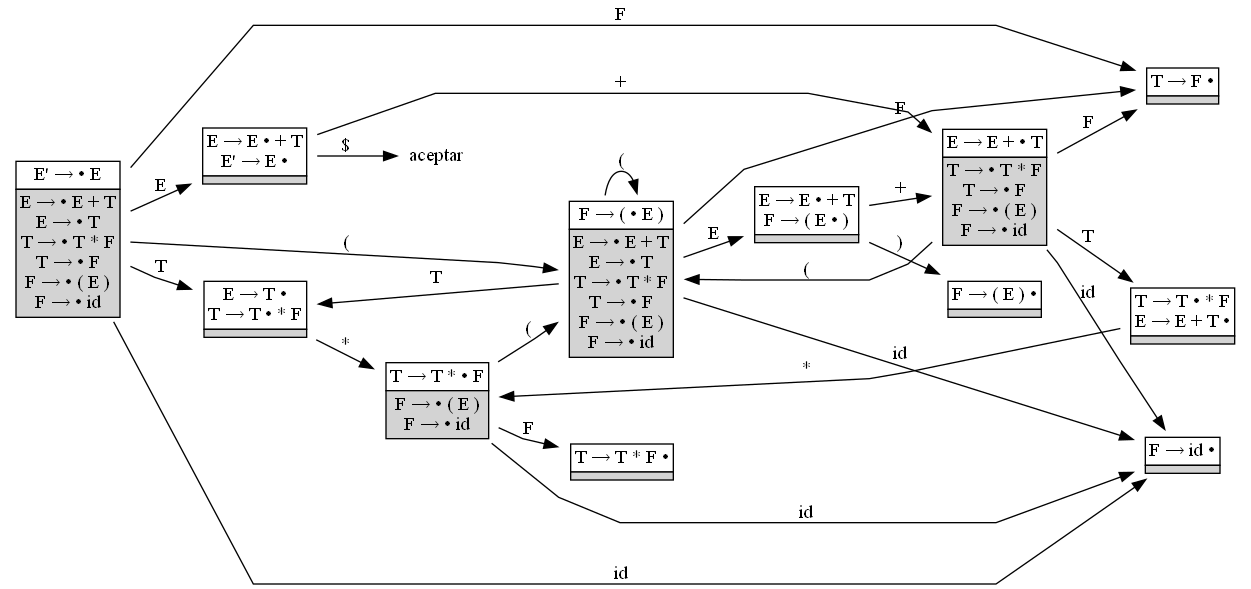
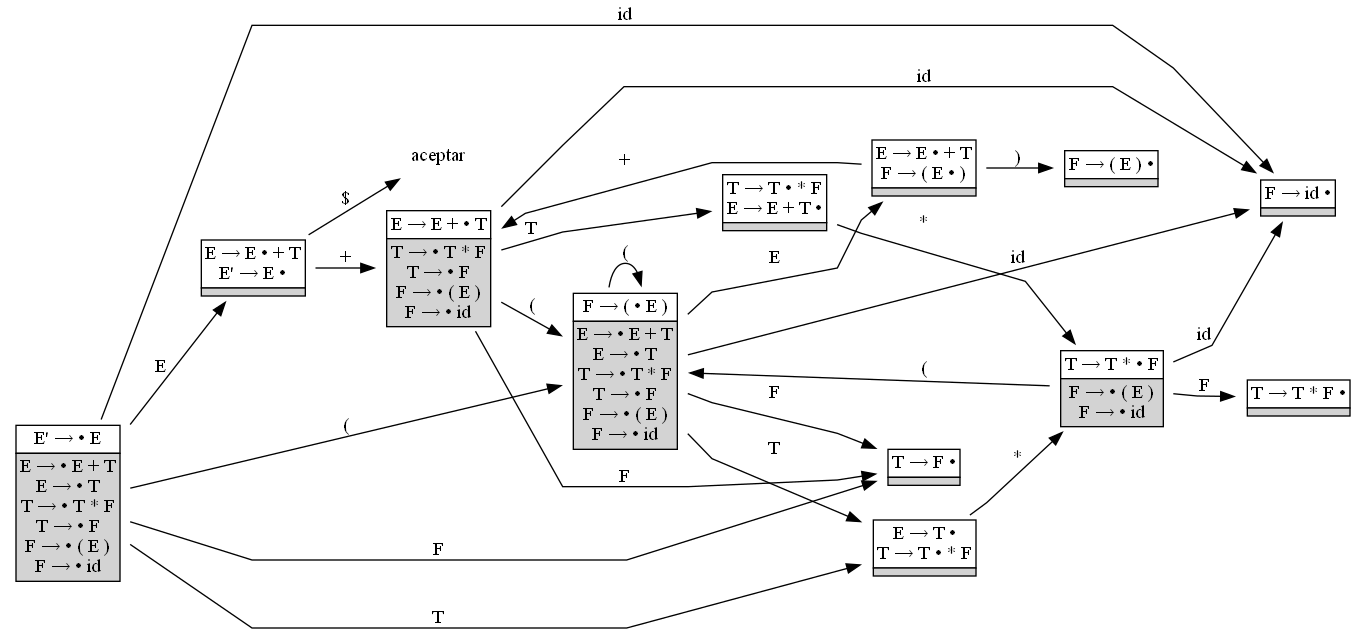
Tabla SLR - Completada!!!
Gracias Dios y Mamá María <3

diff --git a/sara_compis1_tools/Parser.py b/sara_compis1_tools/Parser.py
@@ -355,9 +355,13 @@ class Parser:
                             no_dot.pop()                 
                             complete_prod = [h.name] + no_dot               
                             table[no][f] = f'r{all_prods.index(complete_prod) +1}'
+
+        # Assigning goto
+        for no, state in automata.items():
+            for transition, final_dest in state.transitions.items():
+                if transition in non_terminal:
+                    table[no][transition] = f'{final_dest}'
                                 
-
-
         return table
 
 
@@ -499,7 +503,7 @@ if __name__ == "__main__":
     parser.set_values()
     wut = parser.construct_automata()
     parser.construct_slr_table(wut)
-    # parser.draw_automata_p(wut)
+    parser.draw_automata_p(wut)
     # wut = parser.all_first()
     # wut2 = parser.all_follows()
     a = 1
